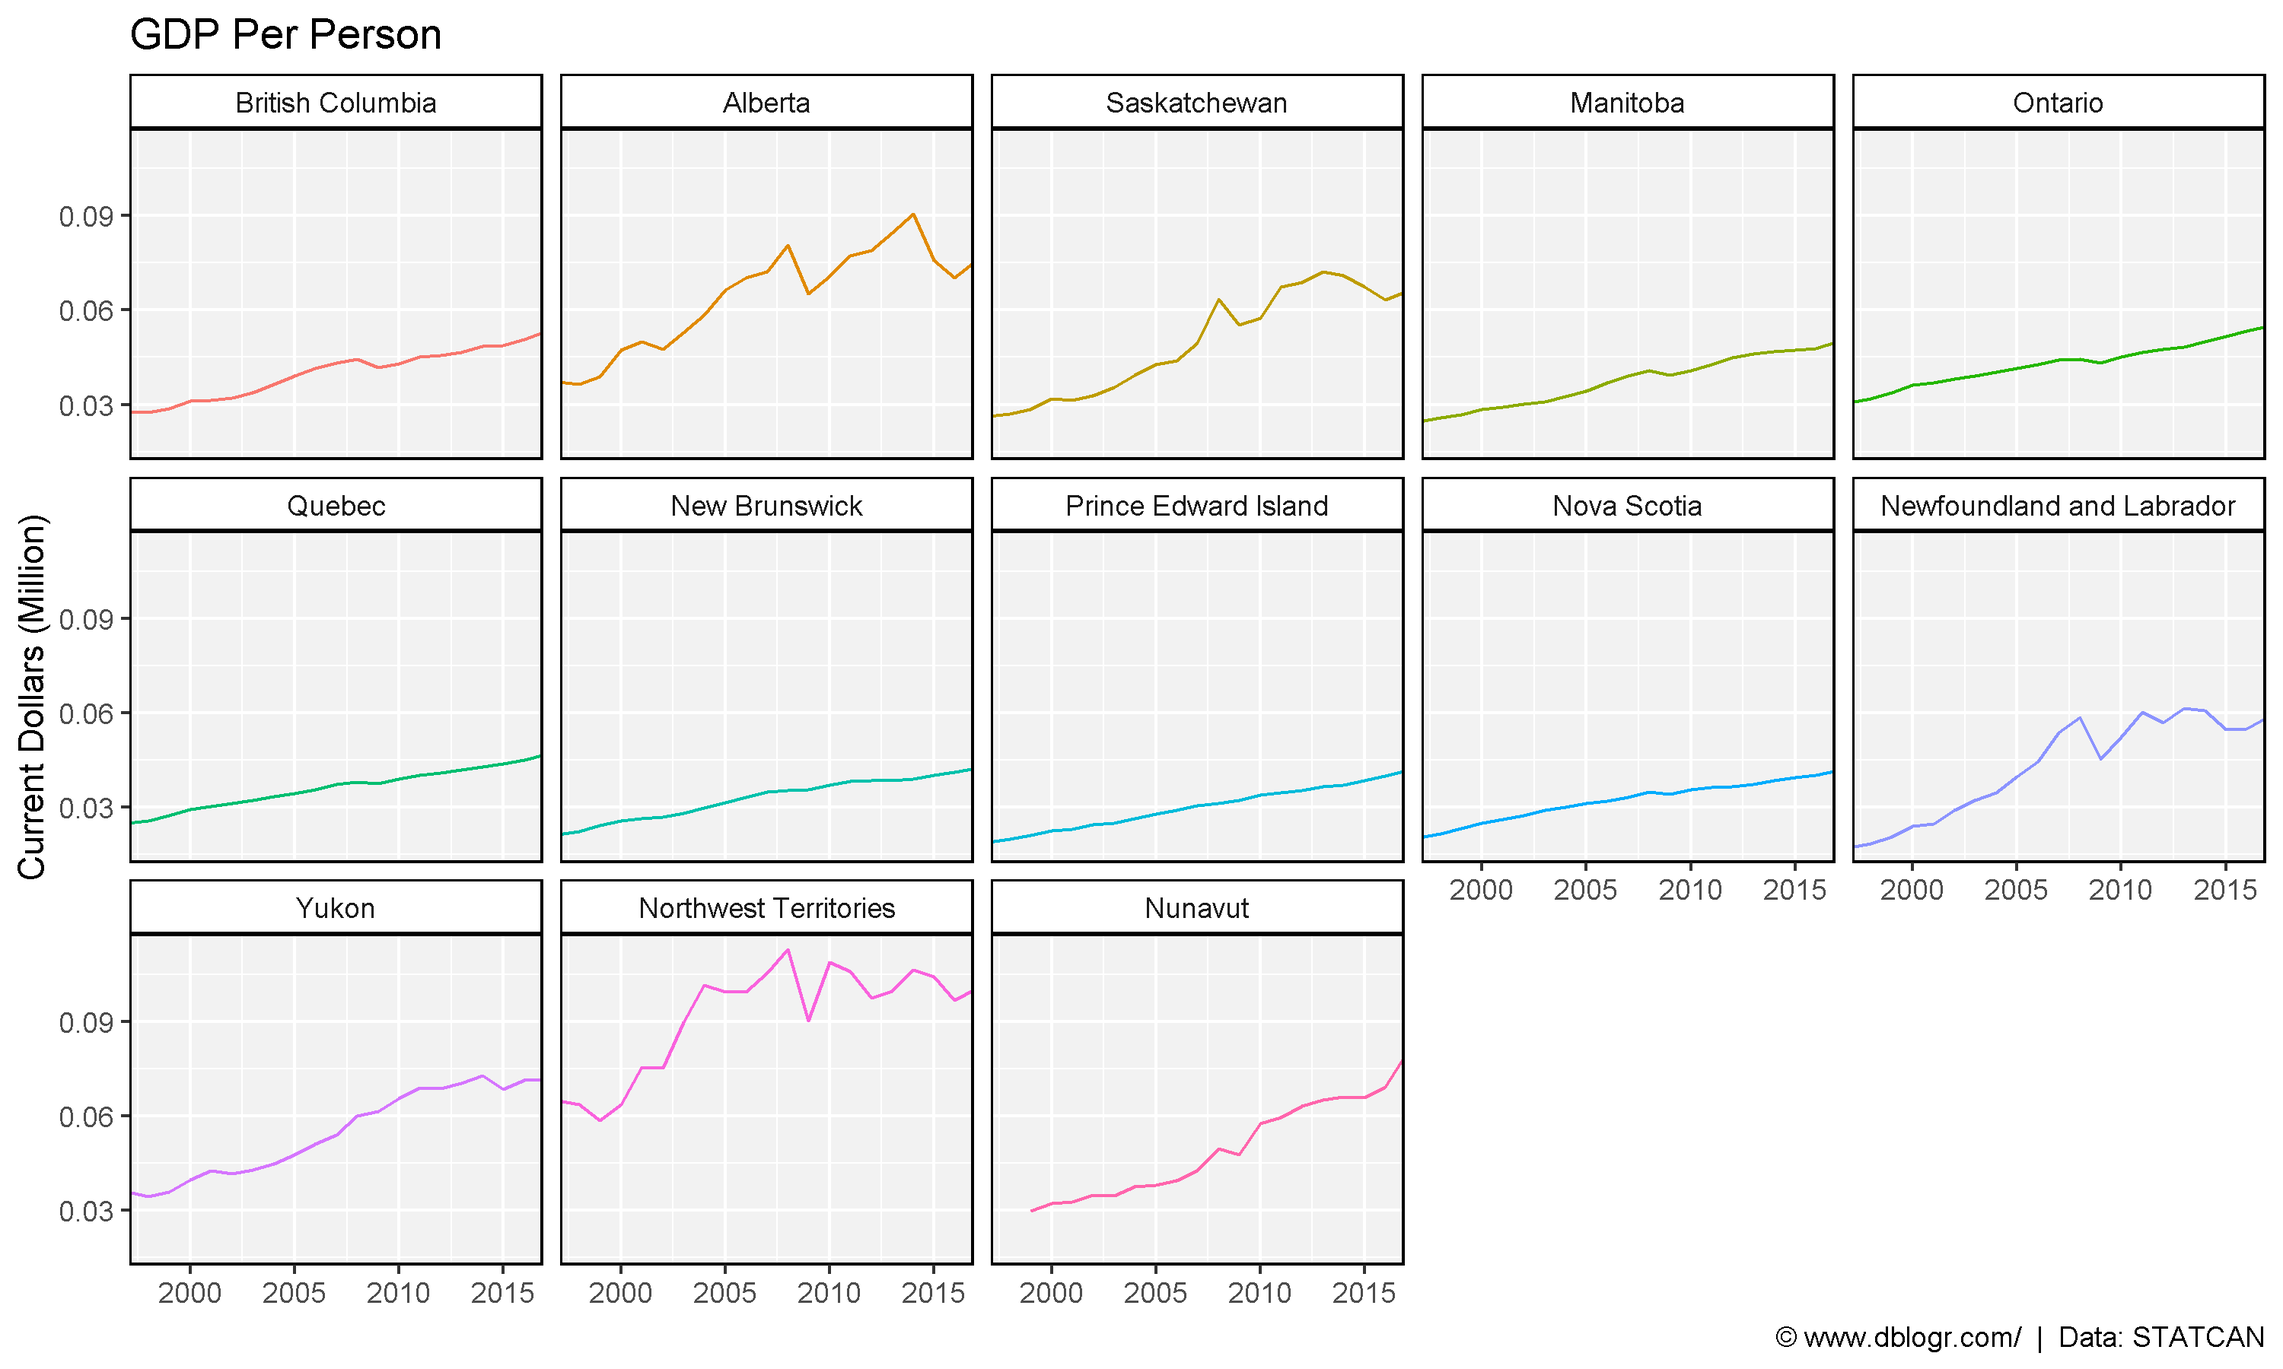
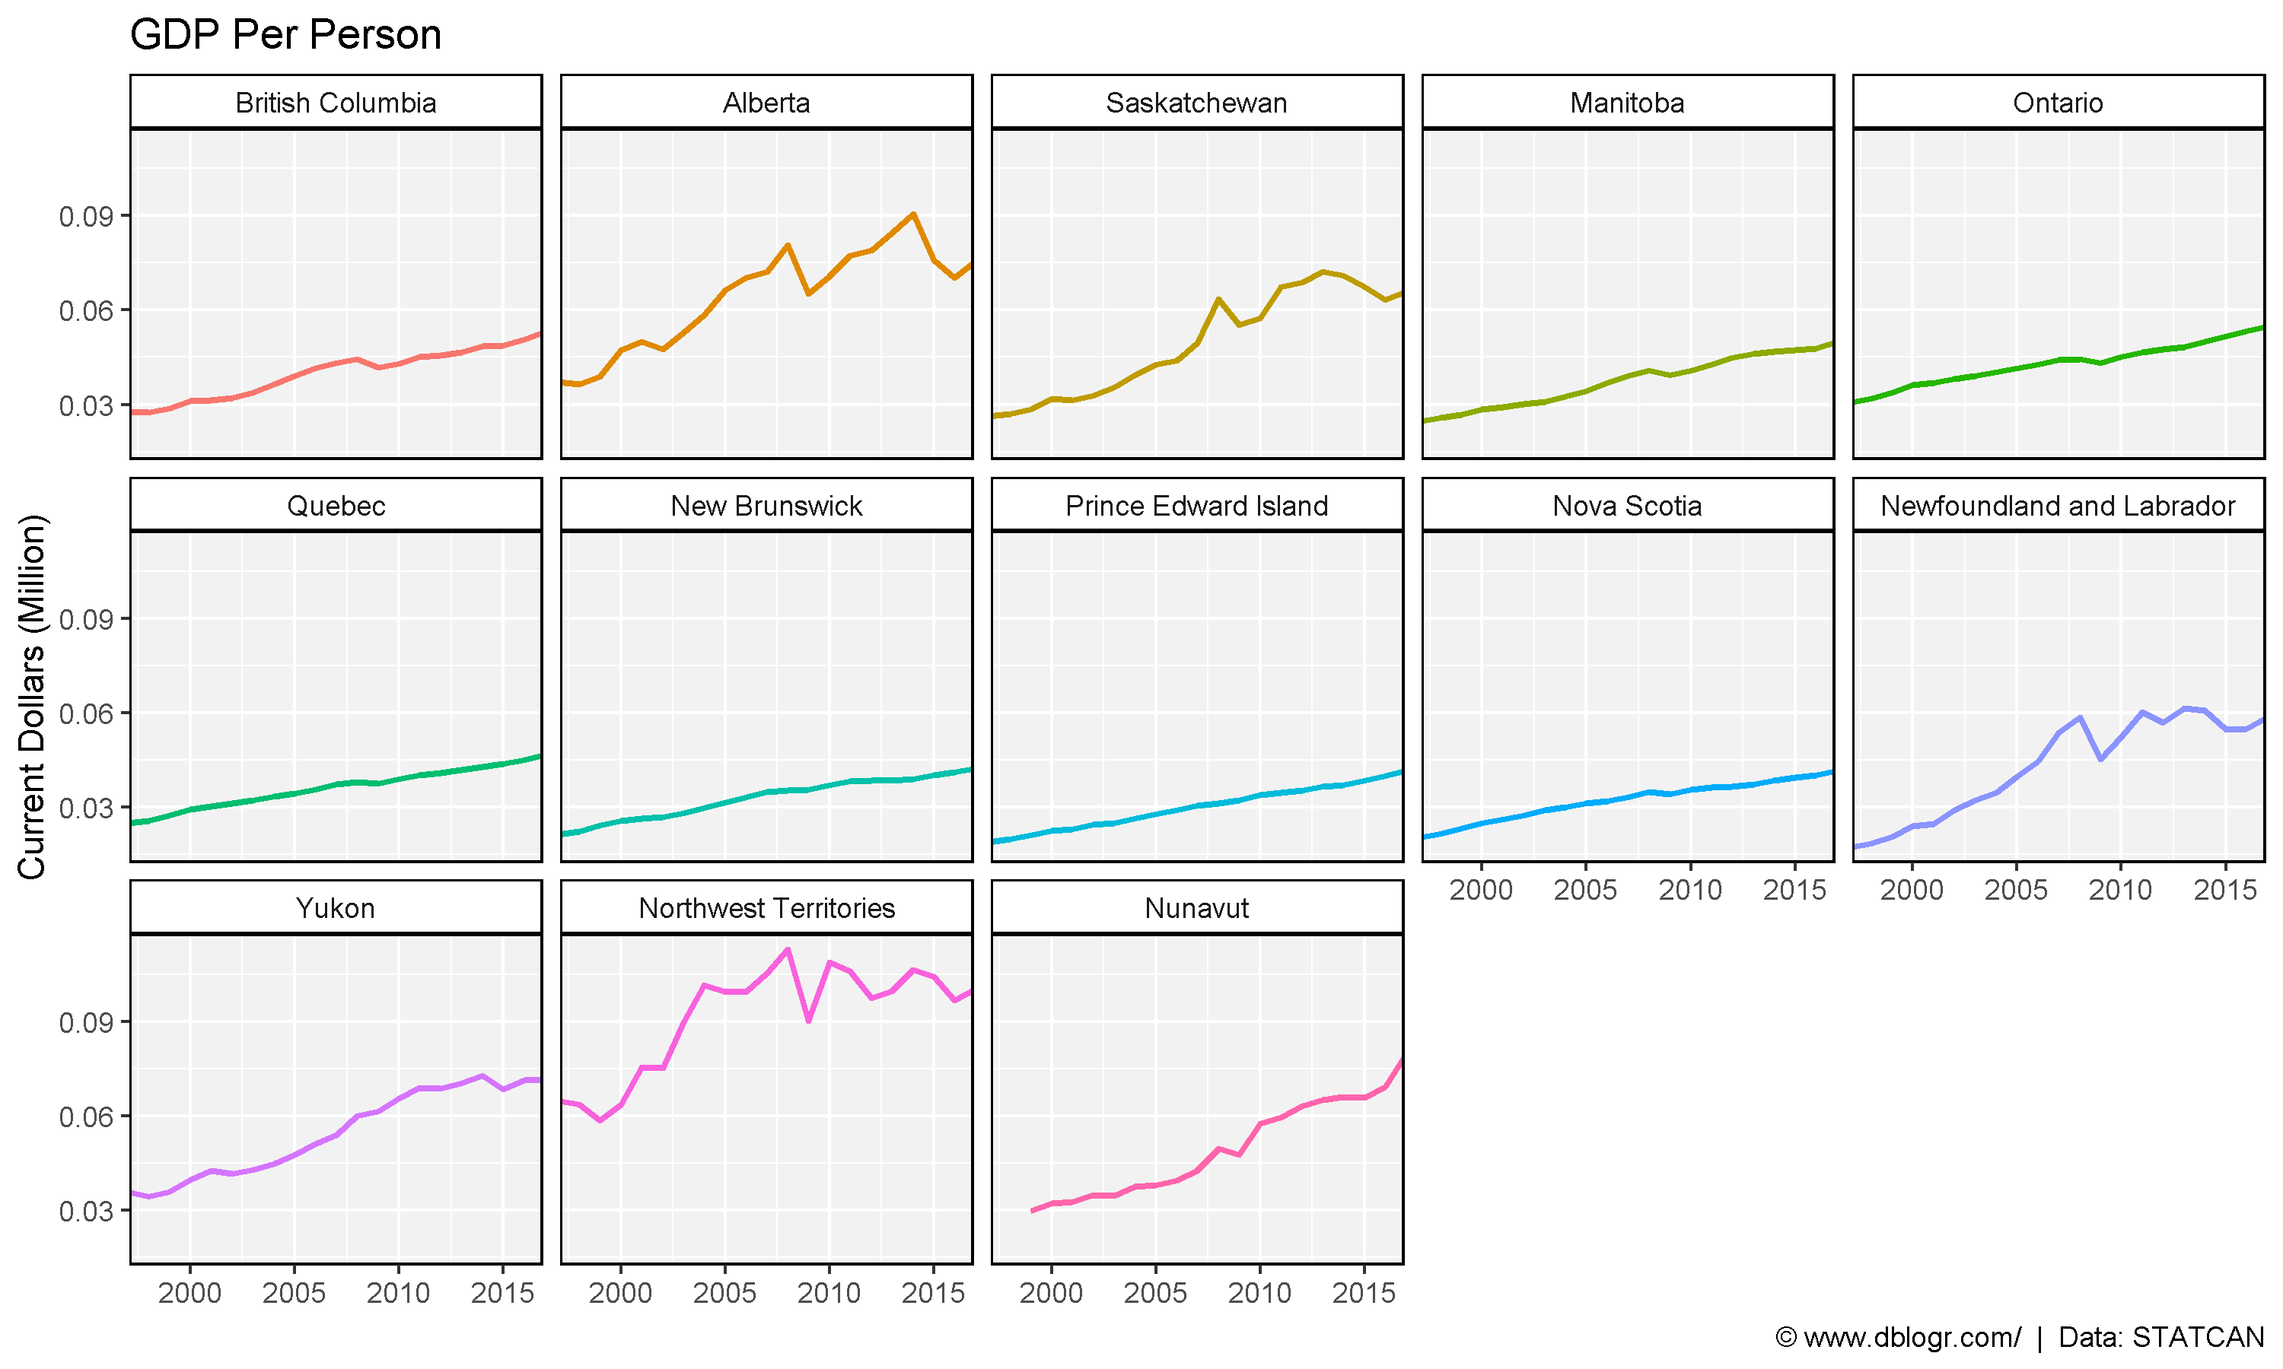
edit

Changed region(s): [[0.527, 0.2178, 0.558, 0.2489]]

diff --git a/content/dblogr/usa_crime/index.html b/content/dblogr/usa_crime/index.html
@@ -2,7 +2,7 @@
 title: "USA Crime Statistics"
 subtitle: "Graphs for crime statistics from the FBI"
 summary:  "Graphs for crime statistics from the FBI"
-date: "2021-04-10"
+date: "2021-04-12"
 author: "Derek Michael Wright <wrightmderek@gmail.com> [www.dblogr.com/](https://dblogr.com/dblogr/usa_crime/)"
 tags: [ "dblogr", "Politics" ]
 draft: true
@@ -45,9 +45,8 @@ mp &lt;- ggplot(xx, aes(x = Weapons, y = Value / 1000)) +
   scale_y_continuous(breaks = 1:14) +
   coord_flip() +
   theme_agData() +
-  labs(x = NULL, y = &quot;Thousand Murders&quot;#,
-       #caption = &quot;\xa9 www.dblogr.com/  |  Data: FBI&quot;
-       )
+  labs(x = NULL, y = &quot;Thousand Murders&quot;,
+       caption = &quot;\xa9 www.dblogr.com/  |  Data: FBI&quot;)
 ggsave(&quot;usa_crime_01.png&quot;, width = 6, height = 4)</code></pre>
 <p><img src="usa_crime_01.png" /></p>
 <hr />
@@ -70,9 +69,8 @@ mp &lt;- ggplot(xx, aes(x = Offender, y = Percent, fill = Offender)) +
   facet_grid(. ~ Victim + paste0(&quot;*&quot;, PopulationPercent, &quot; %&quot;)) +
   scale_fill_manual(values = colors) +
   theme_agData(legend.position = &quot;none&quot;, rotx = T) +
-  labs(title = &quot;Violant Crimes by Victim&quot;#,
-       #caption = &quot;\xa9 www.dblogr.com/  |  Data: FBI\n*Percent of population&quot;
-       )
+  labs(title = &quot;Violant Crimes by Victim&quot;,
+       caption = &quot;\xa9 www.dblogr.com/  |  Data: FBI\n*Percent of population&quot;)
 ggsave(&quot;usa_crime_02.png&quot;, mp, width = 6, height = 4)</code></pre>
 <p><img src="usa_crime_02.png" /></p>
 <pre class="r"><code># Prep data
@@ -87,9 +85,8 @@ mp &lt;- ggplot(x1, aes(x = Victim, y = Incidents / 1000, fill = Victim)) +
   facet_grid(. ~ Offender + paste0(&quot;*&quot;, PopulationPercent, &quot; %&quot;)) +
   scale_fill_manual(values = colors) +
   theme_agData(legend.position = &quot;none&quot;, rotx = T) +
-  labs(title = &quot;Violant Crimes by Offender&quot;, y = &quot;Thousand Incidents&quot;#,
-       #caption = &quot;\xa9 www.dblogr.com/  |  Data: FBI\n*Percent of population&quot;
-       )
+  labs(title = &quot;Violant Crimes by Offender&quot;, y = &quot;Thousand Incidents&quot;,
+       caption = &quot;\xa9 www.dblogr.com/  |  Data: FBI\n*Percent of population&quot;)
 ggsave(&quot;usa_crime_03.png&quot;, mp, width = 6, height = 4)</code></pre>
 <p><img src="usa_crime_03.png" /></p>
 <hr />
@@ -107,8 +104,7 @@ mp &lt;- ggplot(x2, aes(x = Crime, y = Incidents / 1000, fill = Offender)) +
   scale_fill_manual(values = colors) +
   theme_agData(legend.position = &quot;none&quot;, rotx = T) +
   labs(title = &quot;Violant Crimes by Offender&quot;, y = &quot;Thousand Incidents&quot;, x = NULL,
-       #caption = &quot;\xa9 www.dblogr.com/  |  Data: FBI\n*Does not account for population differences&quot;
-       caption = &quot;US Population\nWhite: 62.3%\nHispanic: 17.1%\nBlack: 12%\nAsian: 6.3%&quot;)
+       caption = &quot;\xa9 www.dblogr.com/  |  Data: FBI\nUS Population\nWhite: 62.3%\nHispanic: 17.1%\nBlack: 12%\nAsian: 6.3%&quot;)
 ggsave(&quot;usa_crime_04.png&quot;, mp, width = 6, height = 4)</code></pre>
 <p><img src="usa_crime_04.png" /></p>
 <hr />
@@ -126,8 +122,7 @@ mp &lt;- ggplot(x2, aes(x = Crime, y = Incidents / 1000, fill = Offender)) +
   scale_fill_manual(values = colors) +
   theme_agData(legend.position = &quot;none&quot;, rotx = T) +
   labs(title = &quot;Violant Crimes by Offender&quot;, y = &quot;Thousand Incidents&quot;, x = NULL,
-       #caption = &quot;\xa9 www.dblogr.com/  |  Data: FBI\n*Does not account for population differences&quot;)
-       caption = &quot;US Population\nWhite: 62.3%\nHispanic: 17.1%\nBlack: 12%\nAsian: 6.3%&quot;)
+       caption = &quot;\xa9 www.dblogr.com/  |  Data: FBI\nUS Population\nWhite: 62.3%\nHispanic: 17.1%\nBlack: 12%\nAsian: 6.3%&quot;)
 ggsave(&quot;usa_crime_05.png&quot;, mp, width = 6, height = 4)</code></pre>
 <p><img src="usa_crime_05.png" /></p>
 <hr />
@@ -148,11 +143,40 @@ mp &lt;- ggplot(xx, aes(x = Trait, y = Value, fill = Trait)) +
   facet_grid(. ~ Race) +
   scale_fill_manual(values = colors) +
   theme_agData(legend.position = &quot;none&quot;, rotx = T) +
-  labs(title = &quot;Violant Crimes by Race&quot;, y = &quot;Percent&quot;, x = NULL#,
-       #caption = &quot;\xa9 www.dblogr.com/  |  Data: FBI&quot;
-       )
+  labs(title = &quot;Violant Crimes by Race&quot;, y = &quot;Percent&quot;, x = NULL,
+       caption = &quot;\xa9 www.dblogr.com/  |  Data: FBI&quot;)
 ggsave(&quot;usa_crime_06.png&quot;, mp, width = 6, height = 4)</code></pre>
 <p><img src="usa_crime_06.png" /></p>
 <hr />
+<pre class="r"><code># Prep data 
+colors &lt;- c(&quot;grey&quot;,  &quot;Black&quot;, &quot;darkblue&quot;, &quot;darkred&quot;, &quot;darkorange&quot;, &quot;purple&quot; )
+races  &lt;- c(&quot;White&quot;, &quot;Black&quot;, &quot;Hispanic&quot;, &quot;Asian&quot;,  &quot;Other&quot;,      &quot;Multiple&quot;)
+xx &lt;- read_xlsx(&quot;usa_crime_data.xlsx&quot;, &quot;Race2&quot;) %&gt;%
+  mutate(Race = factor(Race, levels = races),
+         OffenderPercent = round(OffenderPercent, 1))
+# Plot 
+mp1 &lt;- ggplot(xx, aes(x = &quot;&quot;, y = PopulationPercent, fill = Race)) +
+  geom_bar(stat = &quot;identity&quot;, position = &quot;stack&quot;, color = &quot;black&quot;, alpha = 0.8) +
+  geom_text(aes(label = PopulationPercent), color = &quot;white&quot;,
+            position = position_stack(vjust = 0.5)) +
+  scale_fill_manual(values = colors) +
+  theme_void() +
+  theme(plot.title = element_text(hjust = 0.5)) +
+  coord_polar(&quot;y&quot;) +
+  labs(title = &quot;A) Percent of Population&quot;, y = NULL, x = NULL)
+mp2 &lt;- ggplot(xx, aes(x = &quot;&quot;, y = OffenderPercent, fill = Race)) +
+  geom_bar(stat = &quot;identity&quot;, position = &quot;stack&quot;, color = &quot;black&quot;, alpha = 0.8) + 
+  geom_text(aes(label = OffenderPercent), color = &quot;white&quot;,
+            position = position_stack(vjust = 0.5)) +
+  scale_fill_manual(values = colors) +
+  theme_void() +
+  theme(plot.title = element_text(hjust = 0.5)) +
+  coord_polar(&quot;y&quot;) +
+  labs(title = &quot;B) Percent of Violant Crimes&quot;, y = NULL, x = NULL#,
+       #caption = &quot;\xa9 www.dblogr.com/  |  Data: FBI&quot;
+       )
+mp &lt;- ggarrange(mp1, mp2, common.legend = T, legend = &quot;bottom&quot;)
+ggsave(&quot;usa_crime_07.png&quot;, mp, width = 6, height = 4)</code></pre>
+<p><img src="usa_crime_07.png" /></p>
 <p>© Derek Michael Wright <a href="https://dblogr.com/">www.dblogr.com/</a></p>
 </div>

diff --git a/content/dblogr/canada_businesses/index.html b/content/dblogr/canada_businesses/index.html
@@ -2,7 +2,7 @@
 title: "Canada Business Openings and Closures"
 subtitle: "An exploration of business openings and closures in Canada"
 summary:  "An exploration of business openings and closures in Canada"
-date: "2021-04-09"
+date: "2021-04-12"
 author: "Derek Michael Wright <derek.wright@usask.ca> [www.dblogr.com/](https://dblogr.com/dblogr/canada_businesses/)"
 tags: [ "dblogr", "Economics" ]
 weight: 4
@@ -112,6 +112,20 @@ ggsave(&quot;canada_businesses_04.png&quot;, mp, width = 6, height = 4)</code></
 <p><img src="canada_businesses_04.png" /></p>
 <hr />
 <pre class="r"><code># Prep data
+xx &lt;- dd %&gt;% filter(Area == &quot;Saskatchewan&quot;)
+# Plot
+mp &lt;- ggplot(xx, aes(x = Date, y = Difference)) +
+  geom_hline(yintercept = 0) +
+  geom_line(size = 1, color = &quot;darkred&quot;) + 
+  geom_point(alpha = 0.6) +
+  facet_grid(. ~ Area) +
+  theme_agData(legend.position = &quot;bottom&quot;) +
+  labs(title = &quot;Net Business Openings/Closures&quot;, y = NULL, x = NULL,
+       caption = &quot;\xa9 www.dblogr.com/  |  Data: STATCAN&quot;)
+ggsave(&quot;canada_businesses_05.png&quot;, mp, width = 6, height = 4)</code></pre>
+<p><img src="canada_businesses_05.png" /></p>
+<hr />
+<pre class="r"><code># Prep data
 xx &lt;- dd %&gt;% 
   separate(Date, c(&quot;Year&quot;,&quot;Month&quot;,&quot;Day&quot;)) %&gt;% 
   group_by(Area, Year) %&gt;%
@@ -127,8 +141,8 @@ mp &lt;- ggplot(xc, aes(x = Year, y = Businesses, fill = Pos)) +
   theme_agData(legend.position = &quot;none&quot;) +
   labs(title = &quot;Net Business Openings/Closures&quot;, y = NULL, x = NULL,
        caption = &quot;\xa9 www.dblogr.com/  |  Data: STATCAN&quot;)
-ggsave(&quot;canada_businesses_05.png&quot;, mp, width = 6, height = 4)</code></pre>
-<p><img src="canada_businesses_05.png" /></p>
+ggsave(&quot;canada_businesses_06.png&quot;, mp, width = 6, height = 4)</code></pre>
+<p><img src="canada_businesses_06.png" /></p>
 <hr />
 <pre class="r"><code># Prep data
 xx &lt;- xx %&gt;% filter(!Area %in% c(&quot;Canada&quot;, &quot;Nunavut&quot;))
@@ -140,8 +154,8 @@ mp &lt;- ggplot(xx, aes(x = Year, y = Businesses, fill = Pos)) +
   theme_agData(legend.position = &quot;none&quot;) +
   labs(title = &quot;Net Business Openings/Closures&quot;, y = NULL, x = NULL,
        caption = &quot;\xa9 www.dblogr.com/  |  Data: STATCAN&quot;)
-ggsave(&quot;canada_businesses_06.png&quot;, mp, width = 12, height = 8)</code></pre>
-<p><img src="canada_businesses_06.png" /></p>
+ggsave(&quot;canada_businesses_07.png&quot;, mp, width = 12, height = 8)</code></pre>
+<p><img src="canada_businesses_07.png" /></p>
 <hr />
 </div>
 <div id="openings-vs-closings" class="section level1">
@@ -159,8 +173,8 @@ mp &lt;- ggplot(x1, aes(x = Date, y = Value, fill = Measurement)) +
   theme_agData(legend.position = &quot;bottom&quot;) +
   labs(title = &quot;Business Openings/Closures&quot;, y = NULL, x = NULL,
        caption = &quot;\xa9 www.dblogr.com/  |  Data: STATCAN&quot;)
-ggsave(&quot;canada_businesses_07.png&quot;, mp, width = 6, height = 4)</code></pre>
-<p><img src="canada_businesses_07.png" /></p>
+ggsave(&quot;canada_businesses_08.png&quot;, mp, width = 6, height = 4)</code></pre>
+<p><img src="canada_businesses_08.png" /></p>
 <hr />
 <pre class="r"><code># Plot
 mp &lt;- ggplot(xx, aes(x = Date, y = Value, fill = Measurement)) +
@@ -170,8 +184,8 @@ mp &lt;- ggplot(xx, aes(x = Date, y = Value, fill = Measurement)) +
   theme_agData(legend.position = &quot;bottom&quot;) +
   labs(title = &quot;Business Openings/Closures&quot;, y = NULL, x = NULL,
        caption = &quot;\xa9 www.dblogr.com/  |  Data: STATCAN&quot;)
-ggsave(&quot;canada_businesses_08.png&quot;, mp, width = 12, height = 8)</code></pre>
-<p><img src="canada_businesses_08.png" /></p>
+ggsave(&quot;canada_businesses_09.png&quot;, mp, width = 12, height = 8)</code></pre>
+<p><img src="canada_businesses_09.png" /></p>
 <hr />
 <p>© Derek Michael Wright <a href="https://dblogr.com/">www.dblogr.com/</a></p>
 </div>

diff --git a/content/dblogr/canada_deaths/index.html b/content/dblogr/canada_deaths/index.html
@@ -2,7 +2,7 @@
 title: "Deaths In Canada"
 subtitle: "An exploration of weekly deaths in Canada"
 summary:  "An exploration of weekly deaths in Canada"
-date: "2021-04-09"
+date: "2021-04-12"
 author: "Derek Michael Wright <derek.wright@usask.ca> [www.dblogr.com/](https://dblogr.com/dblogr/canada_deaths/)"
 tags: [ "dblogr", "SciComm", "Featured" ]
 weight: 2
@@ -124,8 +124,8 @@ ggsave(&quot;canada_deaths_1_06.png&quot;, mp, width = 8, height = 4)</code></pr
 <p><img src="canada_deaths_1_06.png" /></p>
 <hr />
 </div>
-<div id="saskatchewan-1" class="section level2">
-<h2>Saskatchewan</h2>
+<div id="manitoba" class="section level2">
+<h2>Manitoba</h2>
 <pre class="r"><code>mp &lt;- deathPlot1(&quot;Manitoba&quot;)
 ggsave(&quot;canada_deaths_1_07.png&quot;, mp, width = 8, height = 4)</code></pre>
 <p><img src="canada_deaths_1_07.png" /></p>
@@ -186,7 +186,7 @@ ggsave(&quot;canada_deaths_2_06.png&quot;, mp, width = 6, height = 4)</code></pr
 <p><img src="canada_deaths_2_06.png" /></p>
 <hr />
 </div>
-<div id="saskatchewan-2" class="section level2">
+<div id="saskatchewan-1" class="section level2">
 <h2>Saskatchewan</h2>
 <pre class="r"><code>mp &lt;- deathPlot2(areas = &quot;Saskatchewan&quot;)
 ggsave(&quot;canada_deaths_2_07.png&quot;, mp, width = 6, height = 4)</code></pre>
@@ -256,7 +256,7 @@ ggsave(&quot;canada_deaths_3_06.png&quot;, mp, width = 8, height = 5)</code></pr
 <p><img src="canada_deaths_3_06.png" /></p>
 <hr />
 </div>
-<div id="saskatchewan-3" class="section level2">
+<div id="saskatchewan-2" class="section level2">
 <h2>Saskatchewan</h2>
 <pre class="r"><code>mp &lt;- deathPlot3(areas = &quot;Saskatchewan&quot;)
 ggsave(&quot;canada_deaths_3_07.png&quot;, mp, width = 8, height = 4)</code></pre>
@@ -341,7 +341,7 @@ ggsave(&quot;canada_deaths_4_07.png&quot;, mp, width = 6, height = 4)</code></pr
 <p><img src="canada_deaths_4_07.png" /></p>
 <hr />
 </div>
-<div id="saskatchewan-4" class="section level2">
+<div id="saskatchewan-3" class="section level2">
 <h2>Saskatchewan</h2>
 <pre class="r"><code>mp &lt;- deathPlot4(areas = &quot;Saskatchewan&quot;)
 ggsave(&quot;canada_deaths_4_08.png&quot;, mp, width = 6, height = 4)</code></pre>
@@ -409,7 +409,7 @@ ggsave(&quot;canada_deaths_5_05.png&quot;, mp, width = 6, height = 4)</code></pr
 <p><img src="canada_deaths_5_05.png" /></p>
 <hr />
 </div>
-<div id="saskatchewan-5" class="section level2">
+<div id="saskatchewan-4" class="section level2">
 <h2>Saskatchewan</h2>
 <pre class="r"><code>mp &lt;- deathPlot5(areas = &quot;Saskatchewan&quot;)
 ggsave(&quot;canada_deaths_5_06.png&quot;, mp, width = 6, height = 4)</code></pre>

diff --git a/content/dblogr/canada_gdp/index.html b/content/dblogr/canada_gdp/index.html
@@ -2,7 +2,7 @@
 title: "GDP of Canada"
 subtitle: "GDP data among Canadian provinces from 2007-2018"
 summary:  "GDP data among Canadian provinces from 2007-2018"
-date: "2021-04-09"
+date: "2021-04-12"
 author: "Derek Michael Wright <wrightmderek@gmail.com> [www.dblogr.com/](https://dblogr.com/dblogr/canada_gdp/)"
 tags: [ "dblogr", "Economics" ]
 weight: 2
@@ -86,7 +86,7 @@ xx &lt;- d1 %&gt;%
 x2 &lt;- xx %&gt;% filter(Year == max(Year), Value &gt; 200)
 # Plot
 mp &lt;- ggplot(xx, aes(x = Year, y = Value, color = Area)) + 
-  geom_line() +
+  geom_line(size = 1) +
   coord_cartesian(xlim = c(min(xx$Year)+1, max(xx$Year)-1)) +
   scale_y_continuous(sec.axis = sec_axis(~ ., breaks = x2$Value, labels = x2$Area)) +
   theme_agData(legend.position = &quot;none&quot;) +
@@ -142,7 +142,7 @@ ggsave(&quot;canada_gdp_05.png&quot;, mp, width = 6, height = 4)</code></pre>
 <p><img src="canada_gdp_05.png" /></p>
 <hr />
 <pre class="r"><code>mp &lt;- ggplot(xx, aes(x = Year, y = GDP_PP, color = Area)) + 
-  geom_line() +
+  geom_line(size = 1) +
   coord_cartesian(xlim = c(min(xx$Year)+1, max(xx$Year)-1)) +
   scale_y_continuous(sec.axis = sec_axis(~ ., breaks = x2$GDP_PP, labels = x2$Area)) +
   theme_agData(legend.position = &quot;none&quot;) +

diff --git a/content/dblogr/canada_food_prices/index.html b/content/dblogr/canada_food_prices/index.html
@@ -2,7 +2,7 @@
 title: "Food Prices in Canada"
 subtitle: "Graphs of food prices using STATCAN data"
 summary:  "Graphs of food prices using STATCAN data"
-date: "2021-04-09"
+date: "2021-04-12"
 author: "Derek Michael Wright <wrightmderek@gmail.com> [www.dblogr.com/](https://dblogr.com/dblogr/canada_food_prices/)"
 tags: [ "dblogr", "Economics", "Featured" ]
 weight: 3

diff --git a/content/dblogr/memes/index.html b/content/dblogr/memes/index.html
@@ -2,7 +2,7 @@
 title: "Memes With R"
 subtitle: "My memes, created in R"
 summary:  "My memes, created in R"
-date: "2021-04-10"
+date: "2021-04-12"
 author: "Derek Michael Wright <wrightmderek@gmail.com> [www.dblogr.com/](https://dblogr.com/dblogr/memes/)"
 tags: [ "dblogr", "R", "Featured" ]
 weight: 3
